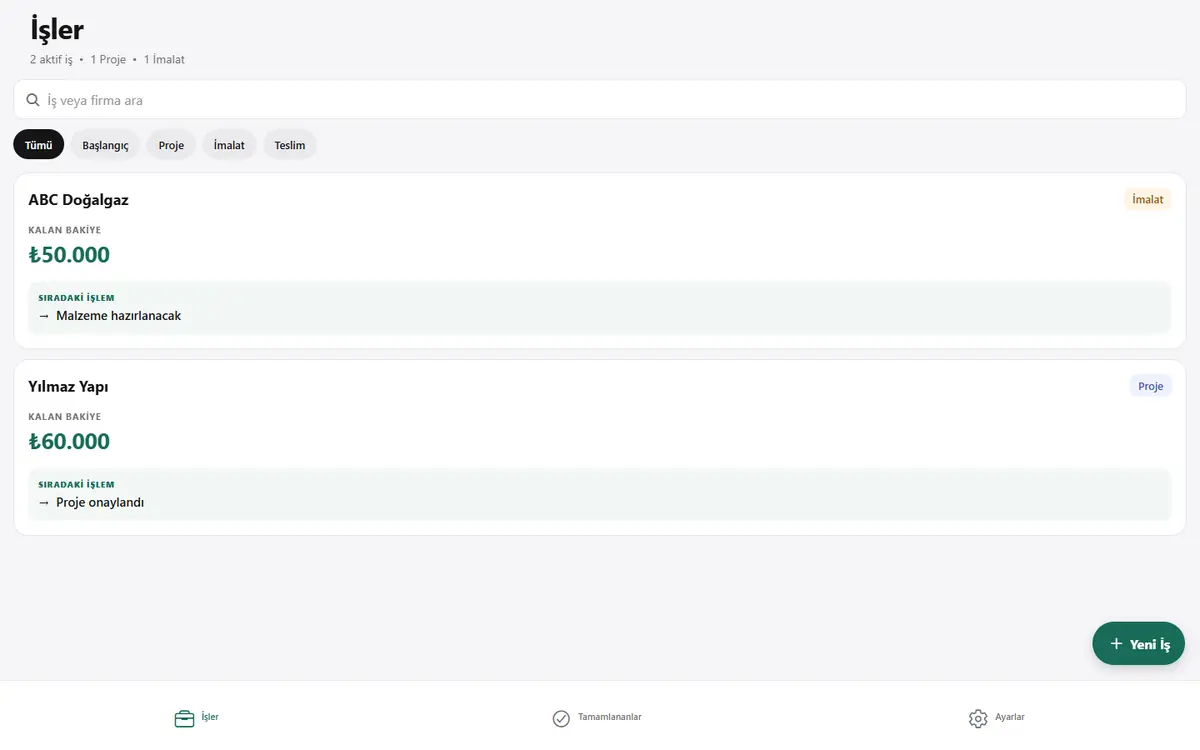
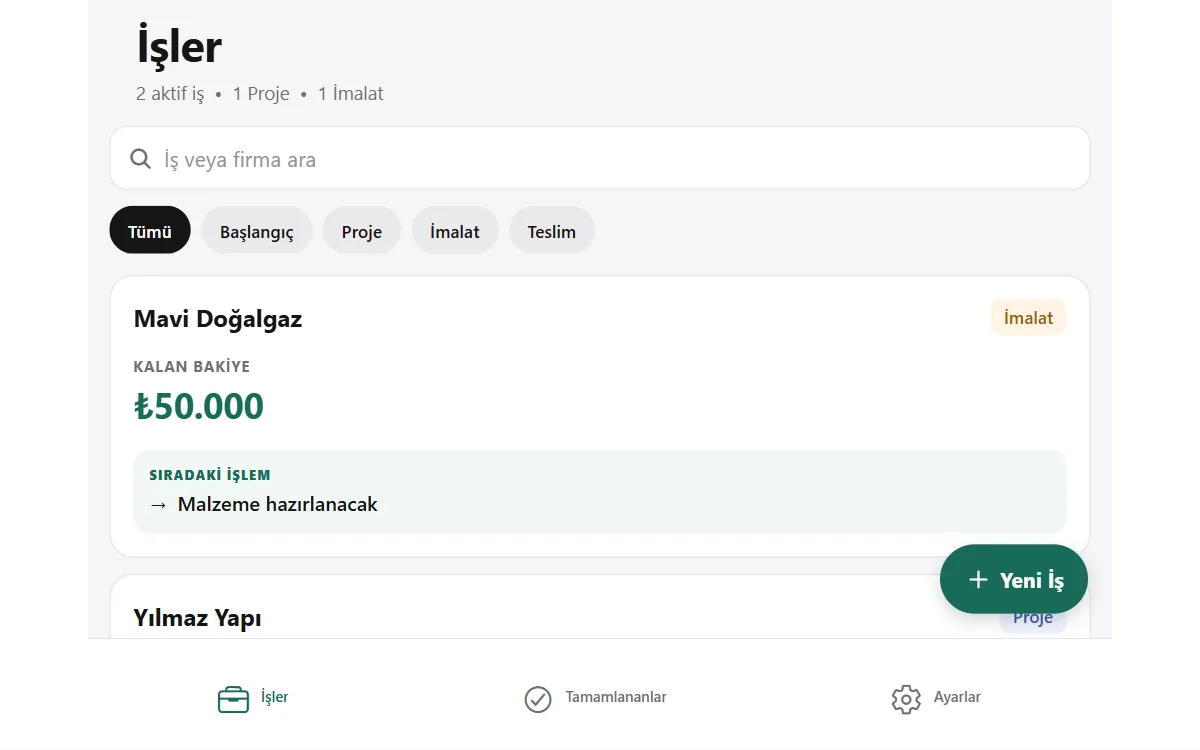
feat(work): real Aura app screens and Mavi Doğalgaz sample data
Aura's card no longer shows the login screen: a composition of the Today,
mood picker and calendar screens, captured from the app's own preview UI
with sample entries. İş Takip's screenshot is retaken after its sample
company was renamed to Mavi Doğalgaz in the demo seed data.

diff --git a/content/project-copy/fr.ts b/content/project-copy/fr.ts
@@ -113,7 +113,7 @@ const fr: ProjectCopyBook = {
   aura: {
     industry: "APPLICATION MOBILE",
     summary: "Une application simple pour tenir un journal et suivre son humeur.",
-    alt: "Écran d’accueil de l’application Aura",
+    alt: "Application Aura avec des données d’exemple : Aujourd’hui, choix de l’humeur et calendrier",
   },
   "is-takip": {
     name: "Suivi des tâches",

diff --git a/content/project-copy/tr.ts b/content/project-copy/tr.ts
@@ -130,7 +130,7 @@ const tr: ProjectCopyBook = {
   aura: {
     industry: "MOBİL UYGULAMA",
     summary: "Günlük tutma ve ruh hâli takibi için sade bir uygulama.",
-    alt: "Aura uygulamasının açılış ekranı",
+    alt: "Aura uygulamasında örnek verilerle Bugün, duygu seçimi ve takvim ekranları",
   },
   "is-takip": {
     industry: "İŞ TAKİBİ",

diff --git a/content/project-copy/de.ts b/content/project-copy/de.ts
@@ -113,7 +113,7 @@ const de: ProjectCopyBook = {
   aura: {
     industry: "MOBILE APP",
     summary: "Eine schlichte App für Tagebuch und Stimmungsverlauf.",
-    alt: "Startbildschirm der Aura-App",
+    alt: "Aura-App mit Beispieldaten: Heute, Stimmungsauswahl und Kalender",
   },
   "is-takip": {
     name: "Auftragsverfolgung",

diff --git a/content/project-copy/en.ts b/content/project-copy/en.ts
@@ -113,7 +113,7 @@ const en: ProjectCopyBook = {
   aura: {
     industry: "MOBILE APP",
     summary: "A simple app for daily journaling and mood tracking.",
-    alt: "Opening screen of the Aura app",
+    alt: "Aura app with sample data: Today, mood picker and calendar screens",
   },
   "is-takip": {
     name: "Job Tracker",
